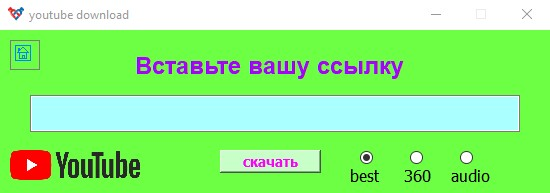
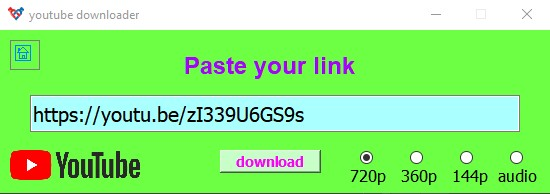
change to yt-dlp

diff --git a/gui.py b/gui.py
@@ -29,7 +29,7 @@ class Ui_MainWindow(object):
         self.lineEdit.setFont(font)
         self.lineEdit.setStyleSheet("background-color: rgb(170, 255, 255);")
         self.lineEdit.setObjectName("lineEdit")
-        self.lineEdit.setToolTip("пример:\n"
+        self.lineEdit.setToolTip("example:\n"
                                  "https://www.youtube.com/watch?v=KJa5oJIaUQw&t"
                                  "\nhttps://youtu.be/KJa5oJIaUQw")
         self.pushButton = QtWidgets.QPushButton(self.centralwidget)
@@ -42,8 +42,8 @@ class Ui_MainWindow(object):
         font.setStrikeOut(False)
         font.setKerning(True)
         self.pushButton.setFont(font)
-        self.pushButton.setCursor(QtGui.QCursor(QtCore.Qt.OpenHandCursor))
-        # self.pushButton.setCursor(QtGui.QCursor(QtCore.Qt.UpArrowCursor))
+        # self.pushButton.setCursor(QtGui.QCursor(QtCore.Qt.OpenHandCursor))
+        self.pushButton.setCursor(QtGui.QCursor(QtCore.Qt.UpArrowCursor))
         self.pushButton.setAcceptDrops(False)
         self.pushButton.setAutoFillBackground(False)
         self.pushButton.setStyleSheet("color: rgb(255, 0, 255);\n"
@@ -81,15 +81,20 @@ class Ui_MainWindow(object):
         self.radioButton_3.setGeometry(QtCore.QRect(460, 120, 15, 15))
         self.radioButton_3.setCursor(QtGui.QCursor(QtCore.Qt.UpArrowCursor))
         self.radioButton_3.setChecked(False)
-        self.radioButton_3.setToolTip('audio')
+        self.radioButton_3.setToolTip('144p')
+        self.radioButton_4 = QtWidgets.QRadioButton(self.centralwidget)
+        self.radioButton_4.setGeometry(QtCore.QRect(510, 120, 15, 15))
+        self.radioButton_4.setCursor(QtGui.QCursor(QtCore.Qt.UpArrowCursor))
+        self.radioButton_4.setChecked(False)
+        self.radioButton_4.setToolTip('audio')
         MainWindow.setCentralWidget(self.centralwidget)
         self.retranslateUi(MainWindow)
         QtCore.QMetaObject.connectSlotsByName(MainWindow)
 
     def retranslateUi(self, MainWindow):
-        MainWindow.setWindowTitle("youtube download")
-        self.pushButton.setText("скачать")
-        self.label.setText("Вставьте вашу ссылку")
+        MainWindow.setWindowTitle("youtube downloader")
+        self.pushButton.setText("download")
+        self.label.setText("Paste your link")
         self.lineEdit.setText('')
-        self.label_2.setText('best     360    audio')
+        self.label_2.setText('720p   360p   144p  audio')
 

diff --git a/main.py b/main.py
@@ -1,7 +1,7 @@
 from sys import argv, exit
 from gui import Ui_MainWindow
 from PyQt5 import QtWidgets
-from pytube import YouTube
+from yt_dlp import YoutubeDL
 import threading
 
 
@@ -32,33 +32,24 @@ class MyWin(QtWidgets.QMainWindow):
         link = ['https://youtu.be/', 'youtu.be/', 'https://www.youtube.com/',
                 'www.youtube.com/']
         if any([temp.startswith(i) for i in link]):
-            if [temp.startswith(i) for i in ['https://youtu.be/', 'youtu.be/']]:
-                temp = temp.replace('youtu.be/', 'www.youtube.com/watch?v=')
             self.download_video(temp)
-            return self.ui.lineEdit.setText('Ждите ....')
+            return self.ui.lineEdit.setText('Wait ....')
         else:
-            return self.ui.lineEdit.setText('Невалидная ссылка!')
+            return self.ui.lineEdit.setText('Invalid link!')
 
     @thread
     @error
     def download_video(self, url):
-        yt = YouTube(url)
-        title = ''.join(i for i in yt.title if i not in '?:/|\\') + '.mp4'
-        stream = yt.streams.filter(progressive=True, file_extension='mp4')
+        opt = {'format': 'm4a/bestaudio/best'}
         if self.ui.radioButton_1.isChecked():
-            stream.get_highest_resolution().download('', title)
+            opt = {'format': '22'}
         elif self.ui.radioButton_2.isChecked():
-            # stream = yt.streams.filter(progressive=True, file_extension='mp4',
-            #                            resolution="360p")
-            # stream.get_by_resolution("360p").download('', title)
-            stream = yt.streams.get_by_itag('18')
-            stream.download('', title)
+            opt = {'format': '18'}
         elif self.ui.radioButton_3.isChecked():
-            stream = yt.streams.filter(only_audio=True).first()
-            title = ''.join(i for i in yt.title if i not in '?:/|\\') + '.mp3'
-            stream.download('', title)
-        # self.ui.label.setText(f'Ваше видео: {yt.title} скачивается')
-        self.ui.lineEdit.setText('Готово!')
+            opt = {'format': '17'}
+        with YoutubeDL(opt) as ydl:
+            ydl.download(url)
+        self.ui.lineEdit.setText('Downloaded!')
 
 
 if __name__ == "__main__":

diff --git a/README.md b/README.md
@@ -1,5 +1,4 @@
-# ytdl
 
-## На основе pytube
+## Based on yt-dlp
 
 ![preview](preview.jpg)
